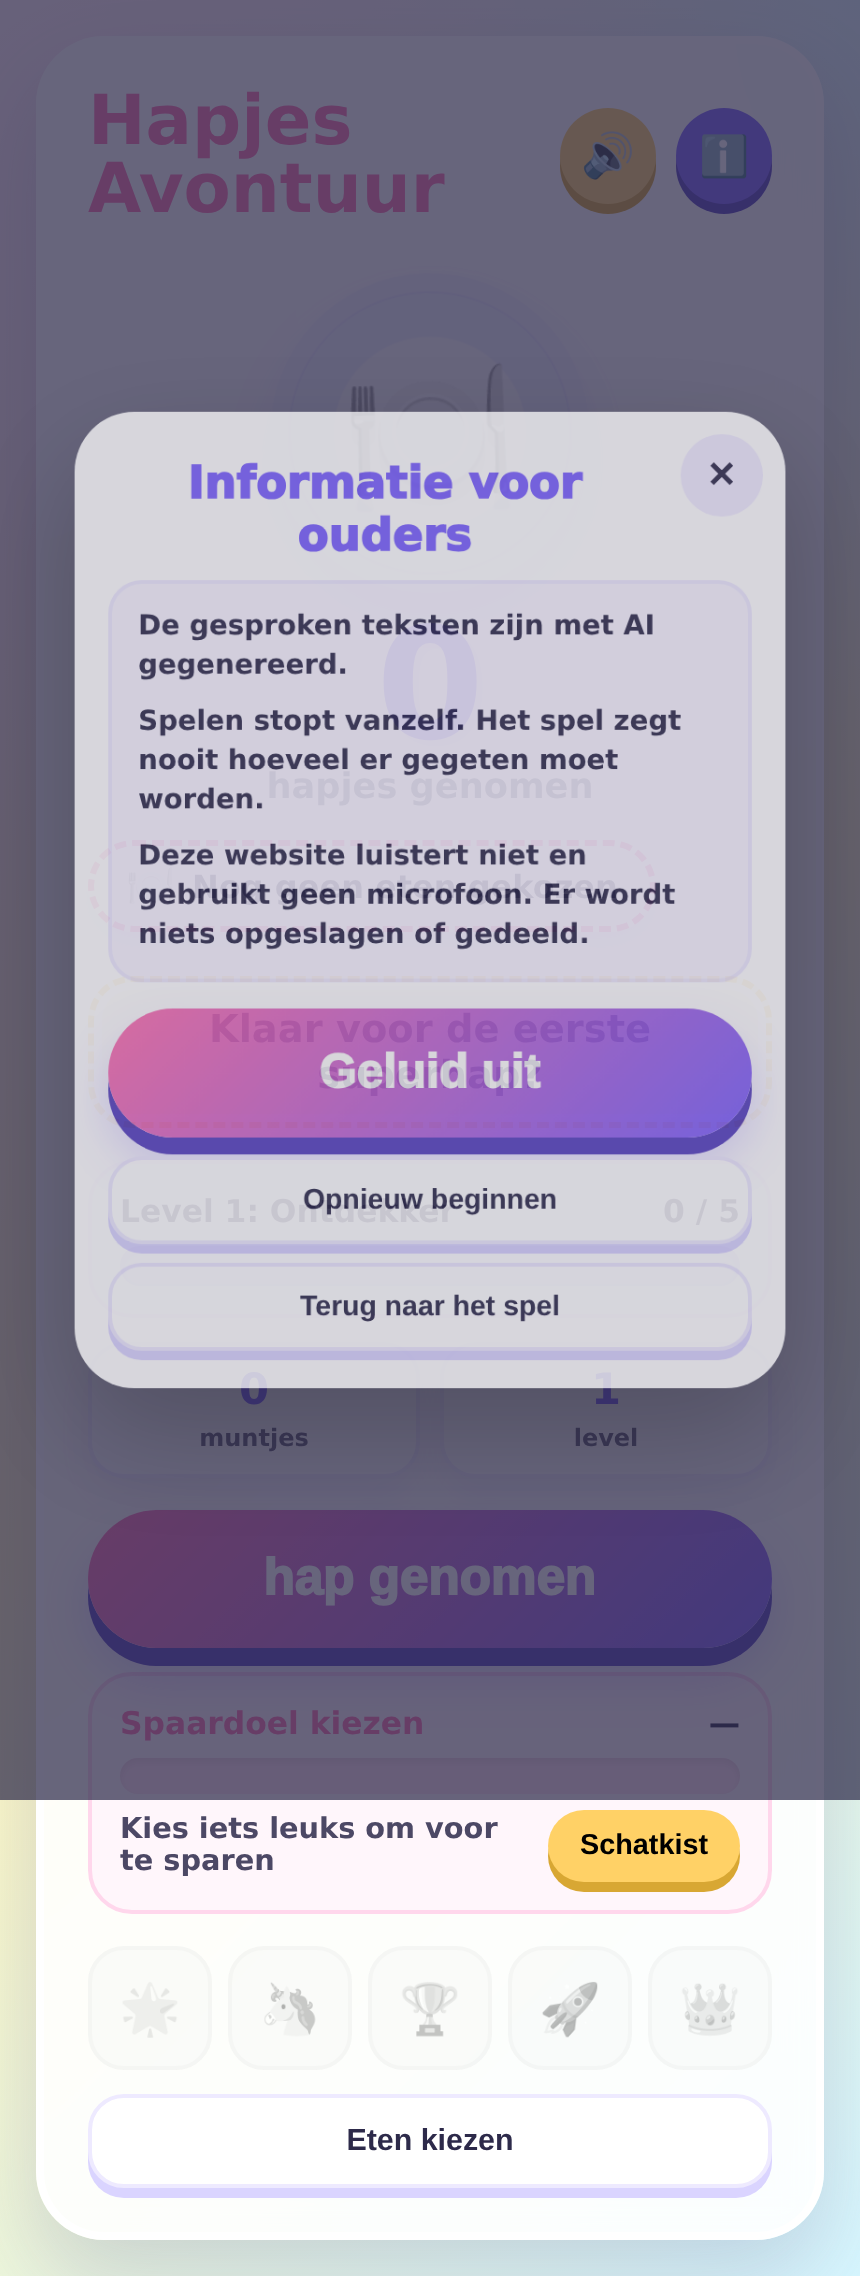
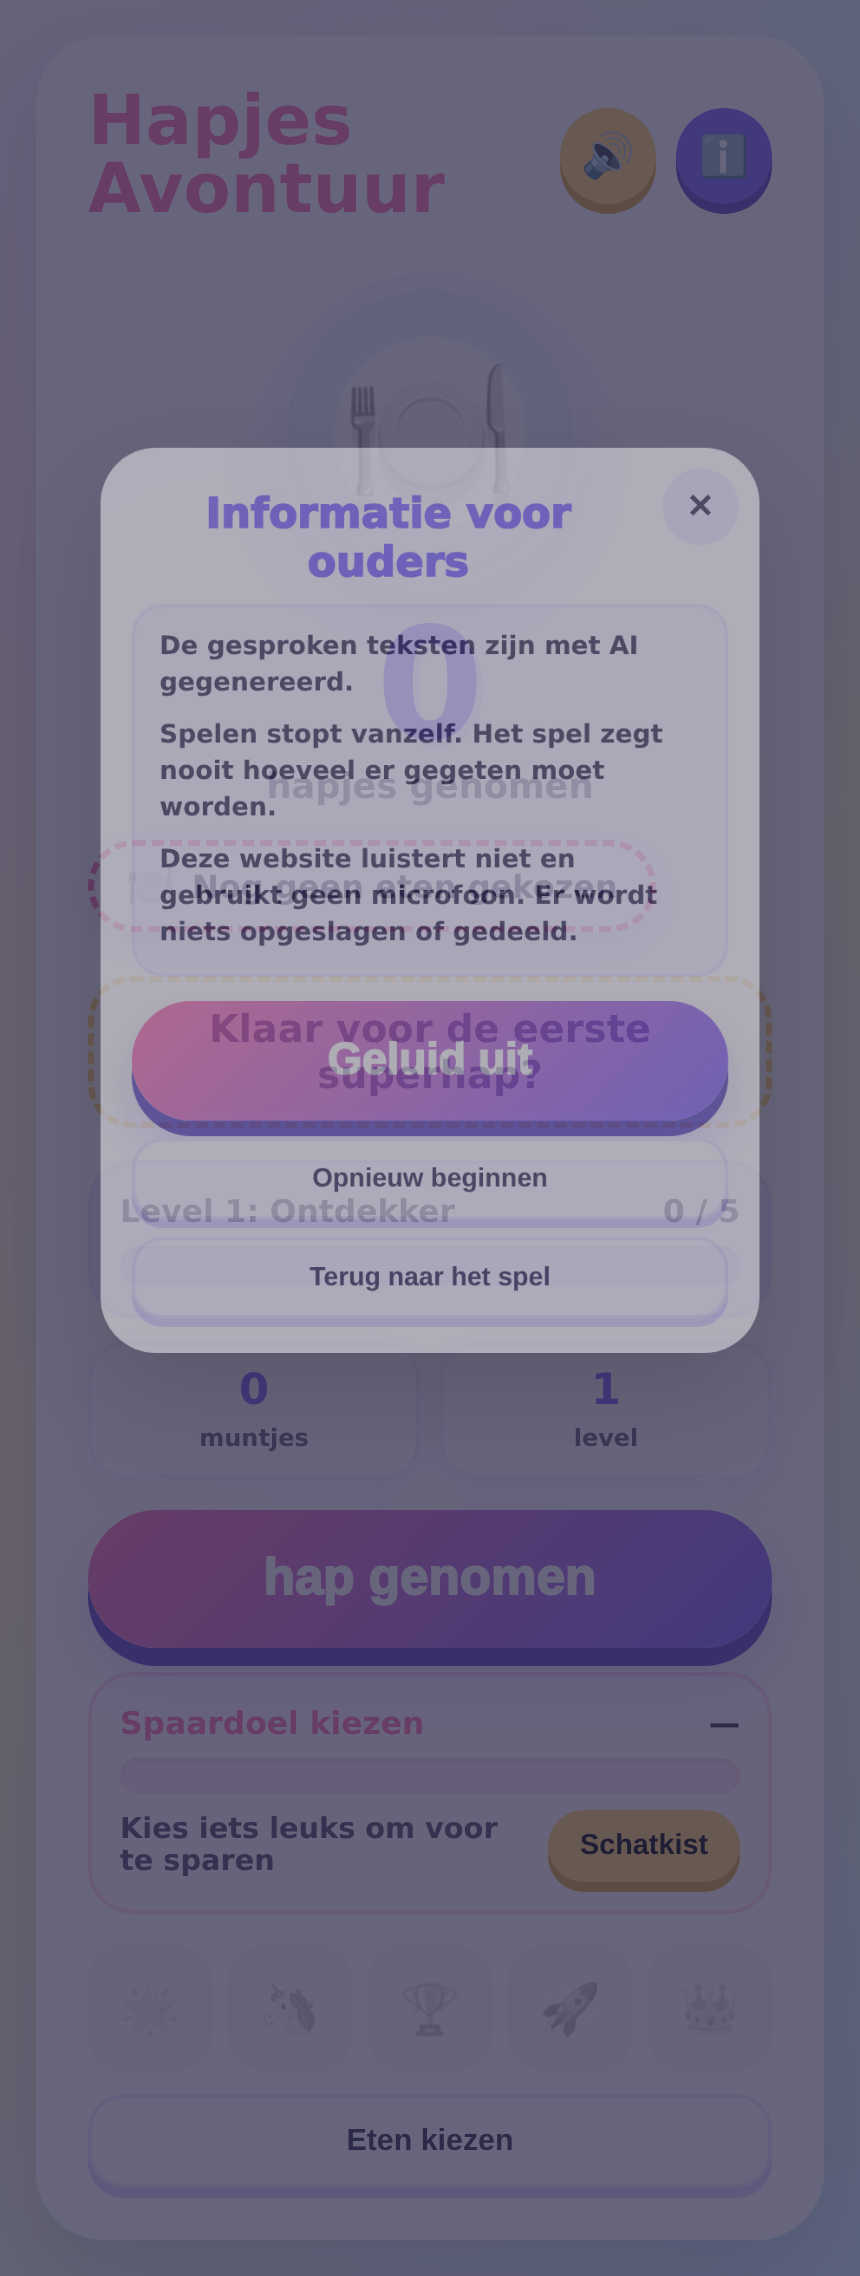
fix 🐛: dim the full page behind the parent menu
Pin the scrim to the document, not one viewport. The card stays
centered on screen. Stops the hard cut through the Schatkist.

diff --git a/index.html b/index.html
@@ -27,6 +27,7 @@
     body {
       margin: 0;
       min-height: 100dvh;
+      position: relative;
       font-family: "Trebuchet MS", system-ui, sans-serif;
       background:
         radial-gradient(circle at top left, #fff0f7 0, transparent 35%),
@@ -751,18 +752,19 @@
        meal picker and Schatkist; holds the AI-voice disclosure, restart,
        and the sound setting so they live outside the child hap flow. */
     .oudermenu {
-      position: fixed;
+      position: absolute;
       top: 0;
       right: 0;
       bottom: 0;
       left: 0;
-      width: 100vw;
-      height: 100dvh;
+      width: 100%;
+      min-height: 100%;
+      height: auto;
       margin: 0;
       background: rgba(45, 42, 74, 0.72);
       display: none;
       justify-content: center;
-      align-items: center;
+      align-items: flex-start;
       padding: 18px;
       z-index: 46;
     }
@@ -774,15 +776,18 @@
     .oudermenu-box {
       width: 100%;
       max-width: 380px;
-      max-height: calc(100vh - 48px);
+      max-height: calc(100dvh - 48px);
       overflow-y: auto;
       background: white;
       border-radius: 32px;
       padding: 24px 18px 20px;
       text-align: center;
       box-shadow: 0 25px 60px rgba(0, 0, 0, 0.28);
-      animation: rewardPop 0.3s ease;
-      position: relative;
+      animation: ouderPop 0.3s ease;
+      position: fixed;
+      top: 50%;
+      left: 50%;
+      transform: translate(-50%, -50%);
     }
 
     .oudermenu-close {
@@ -972,6 +977,11 @@
     @keyframes rewardPop {
       from { transform: scale(0.75); opacity: 0; }
       to { transform: scale(1); opacity: 1; }
+    }
+
+    @keyframes ouderPop {
+      from { transform: translate(-50%, -50%) scale(0.75); opacity: 0; }
+      to { transform: translate(-50%, -50%) scale(1); opacity: 1; }
     }
 
     @keyframes fall {
